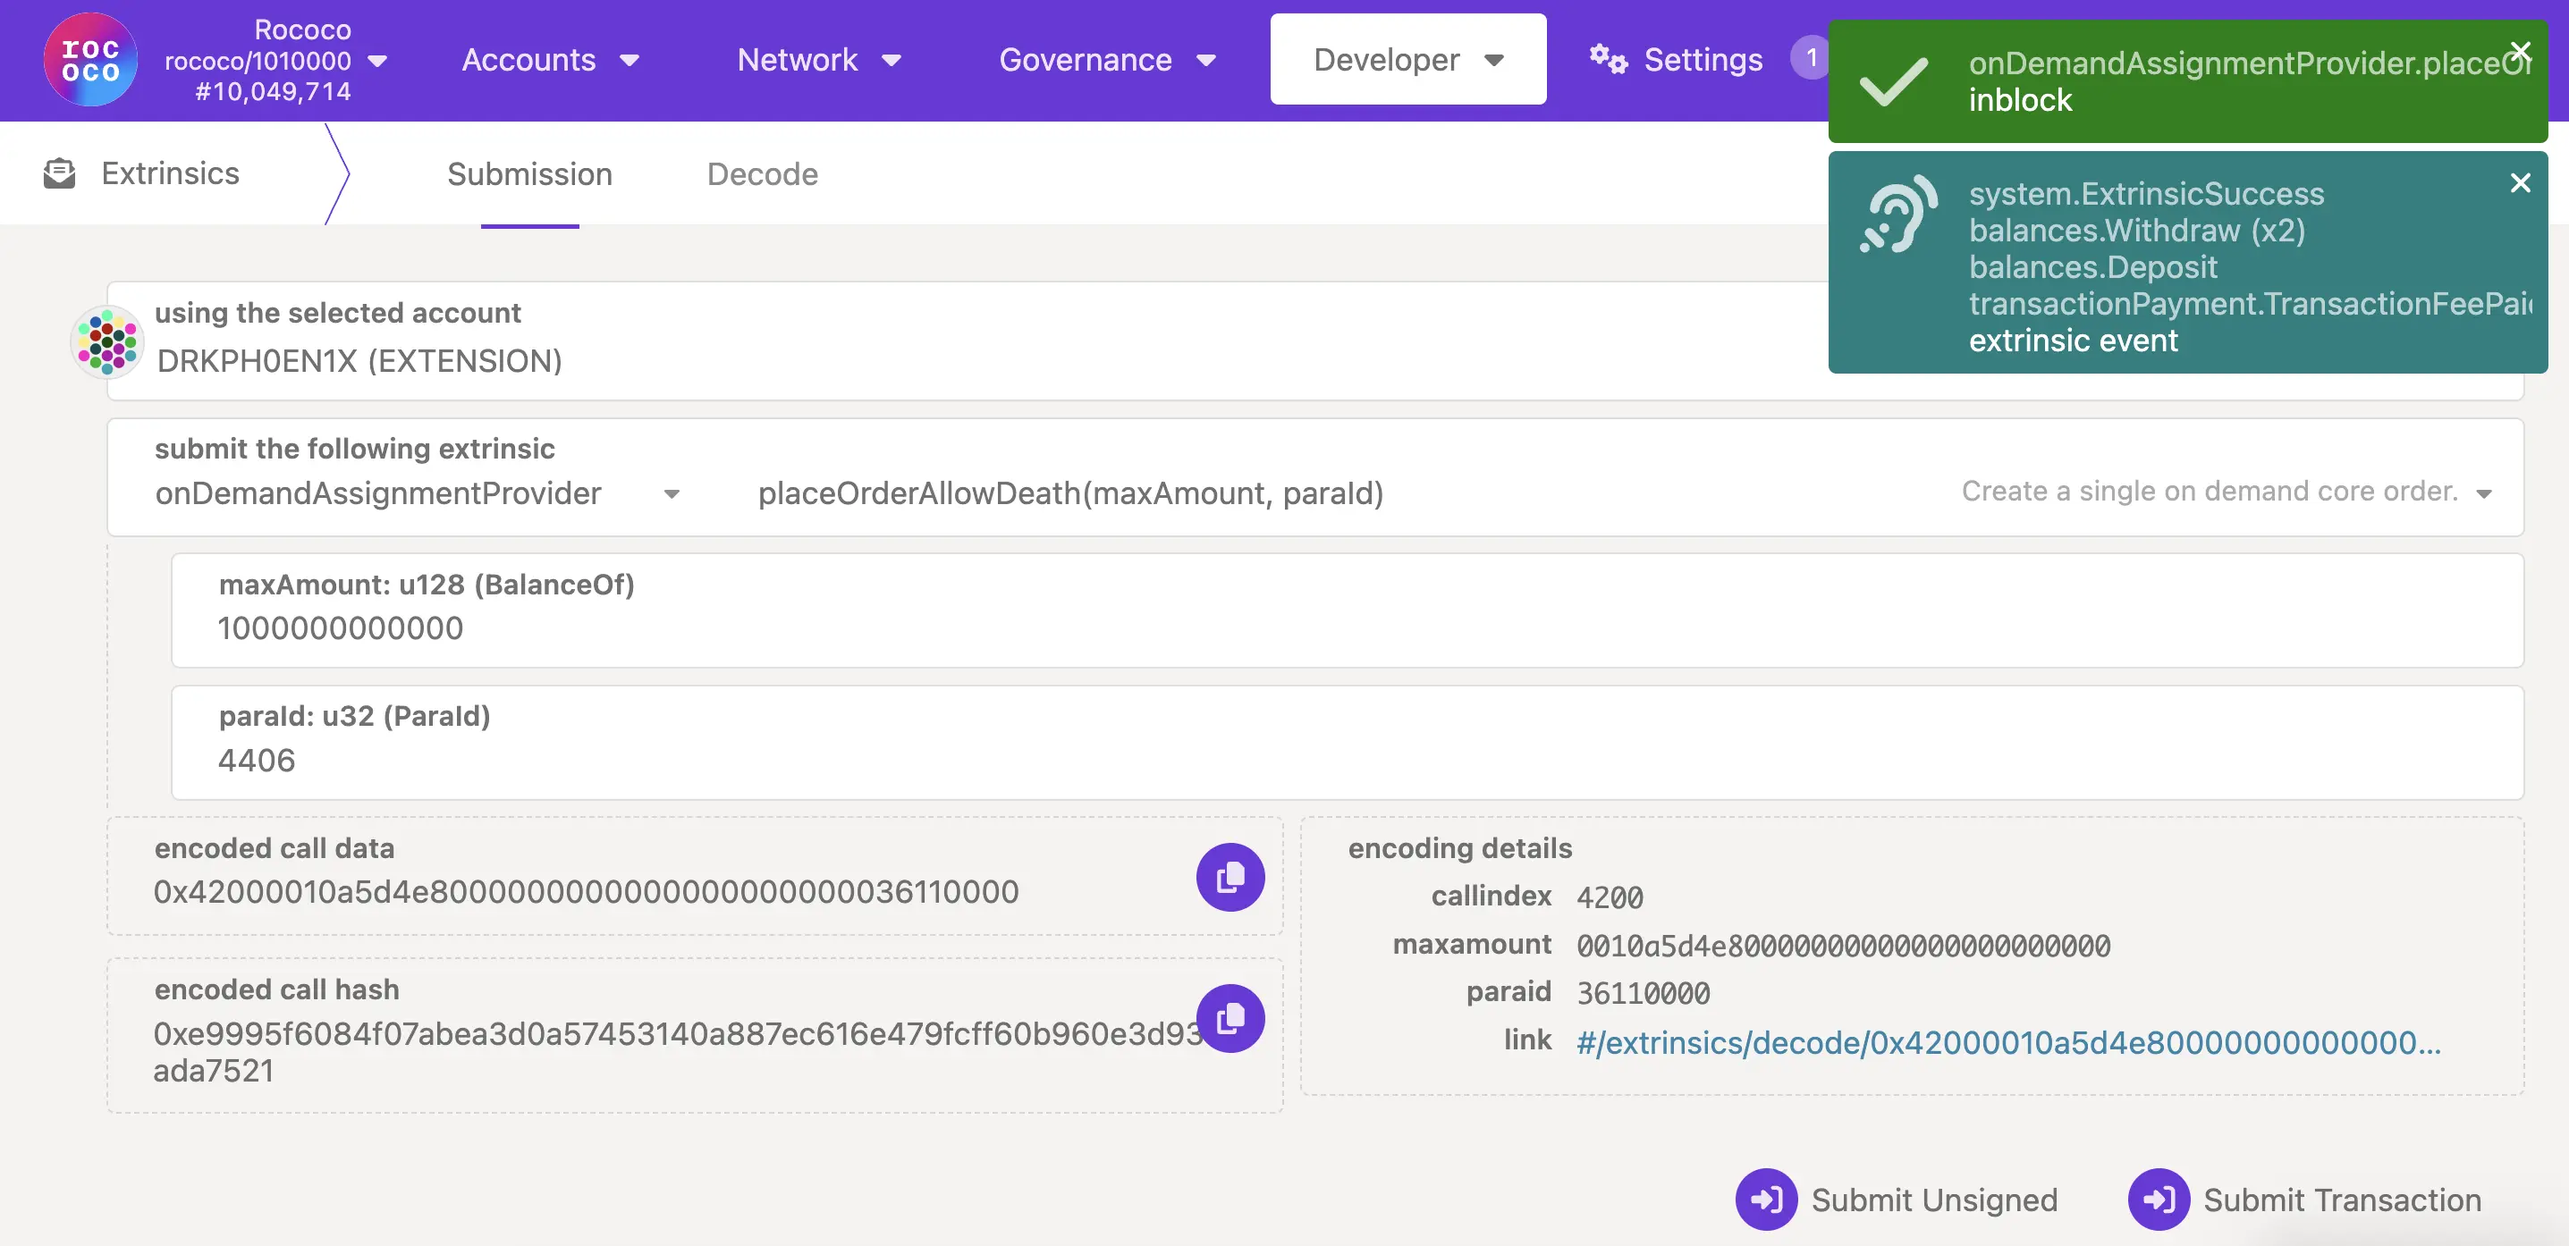
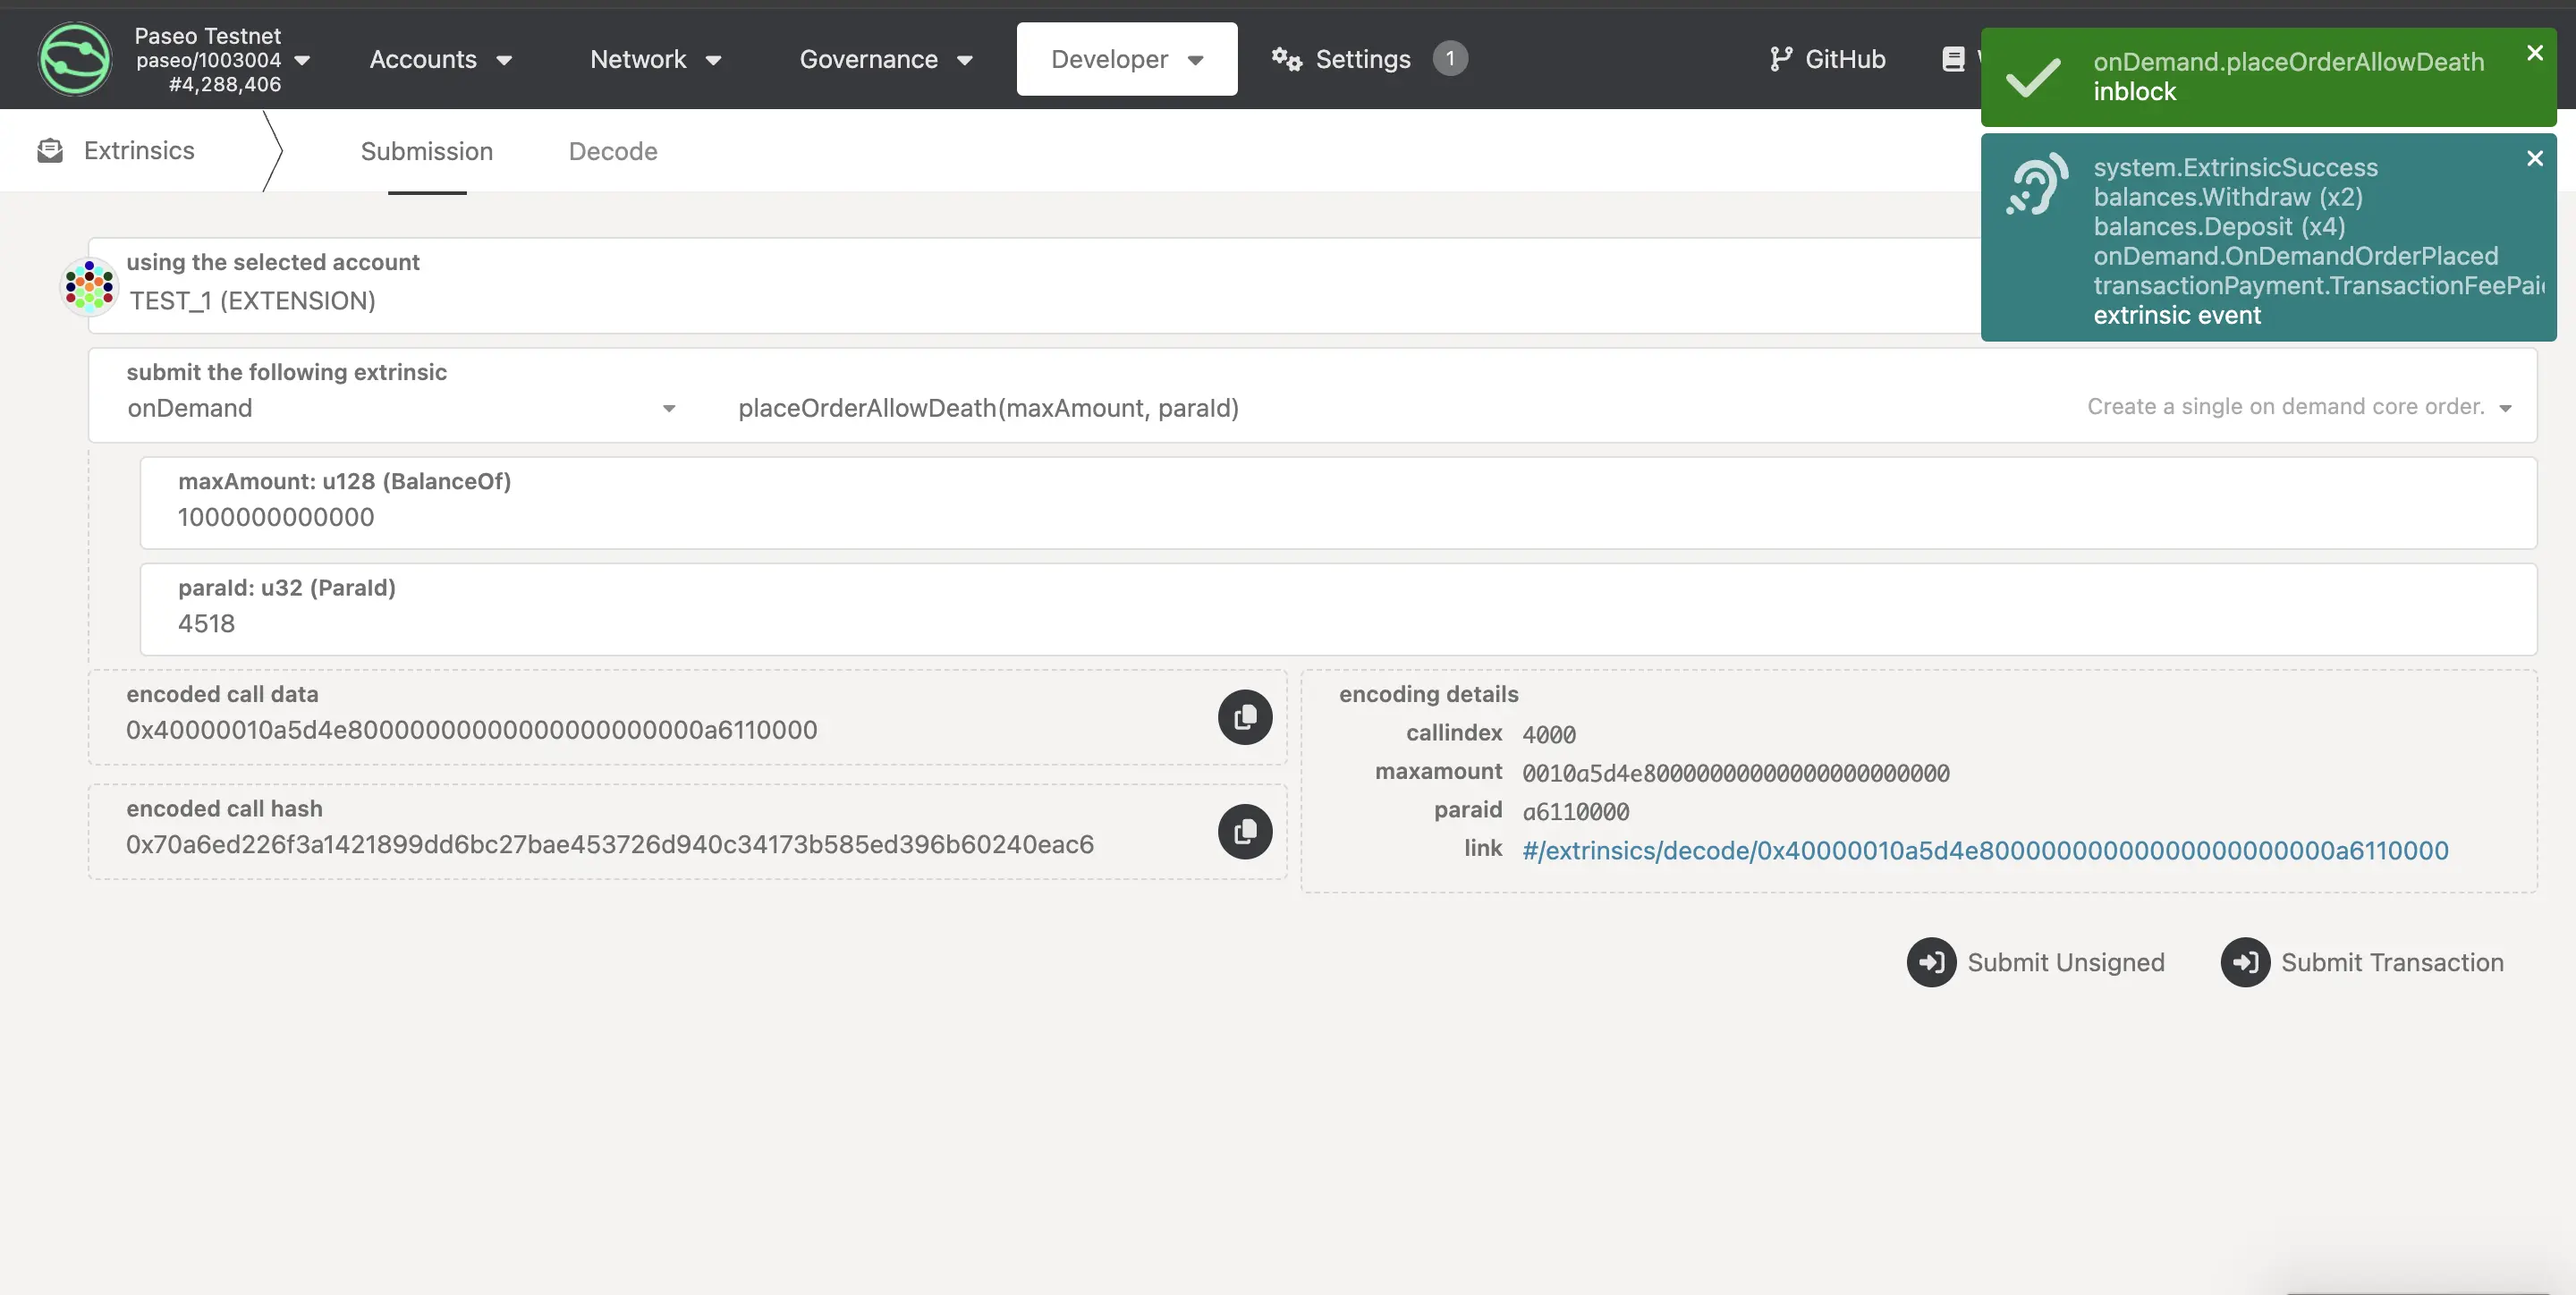
ondemand updates

diff --git a/tutorials/polkadot-sdk/parachains/obtain-coretime.md b/tutorials/polkadot-sdk/parachains/obtain-coretime.md
@@ -97,7 +97,7 @@ Once you sign and send this transaction, that task/parachain will be assigned to
 
 ## Ordering On Demand Coretime
 
-Navigate to [Developer > Extrinsics](https://polkadot.js.org/apps/#/extrinsics){target=\blank} on the relay chain and issue`onDemandAssignmentProvider.placeOrderAllowDeath` extrinsic from the account that registered the
+Navigate to [Developer > Extrinsics](https://polkadot.js.org/apps/#/extrinsics){target=\blank} on the relay chain and issue`onDemand.placeOrderAllowDeath` extrinsic from the account that registered the
 `ParaID` by specifying sufficient `maxAmount`for the transaction to go through successfully.
 
 ![](/images/tutorials/polkadot-sdk/parachains/obtain-coretime/obtain-coretime-9.webp)
@@ -105,8 +105,8 @@ Navigate to [Developer > Extrinsics](https://polkadot.js.org/apps/#/extrinsics){
 !!!info
  There are two extrinsics which allow you to place orders for on-demand coretime:
 
- - [`onDemandAssignmentProvider.placeOrderAllowDeath`](https://paritytech.github.io/polkadot-sdk/master/polkadot_runtime_parachains/on_demand/pallet/dispatchables/fn.place_order_allow_death.html){target=\_blank} - will [reap](https://wiki.polkadot.network/docs/learn-accounts#existential-deposit-and-reaping){target=\blank} the account once the provided funds run out.
- - [`onDemandAssignmentProvider.placeOrderKeepAlive`](https://paritytech.github.io/polkadot-sdk/master/polkadot_runtime_parachains/on_demand/pallet/dispatchables/fn.place_order_keep_alive.html){target=\_blank} - includes a check which will **not** reap the account if the provided funds will run out, ensuring the account is kept alive.
+ - [`onDemand.placeOrderAllowDeath`](https://paritytech.github.io/polkadot-sdk/master/polkadot_runtime_parachains/on_demand/pallet/dispatchables/fn.place_order_allow_death.html){target=\_blank} - will [reap](https://wiki.polkadot.network/docs/learn-accounts#existential-deposit-and-reaping){target=\blank} the account once the provided funds run out.
+ - [`onDemand.placeOrderKeepAlive`](https://paritytech.github.io/polkadot-sdk/master/polkadot_runtime_parachains/on_demand/pallet/dispatchables/fn.place_order_keep_alive.html){target=\_blank} - includes a check which will **not** reap the account if the provided funds will run out, ensuring the account is kept alive.
 
 With each successful on-demand extrinsic, the parachain head changes (you may have to zoom out on the browser for parachain head details to show up on the Polkadot.Js Apps interface).
 
